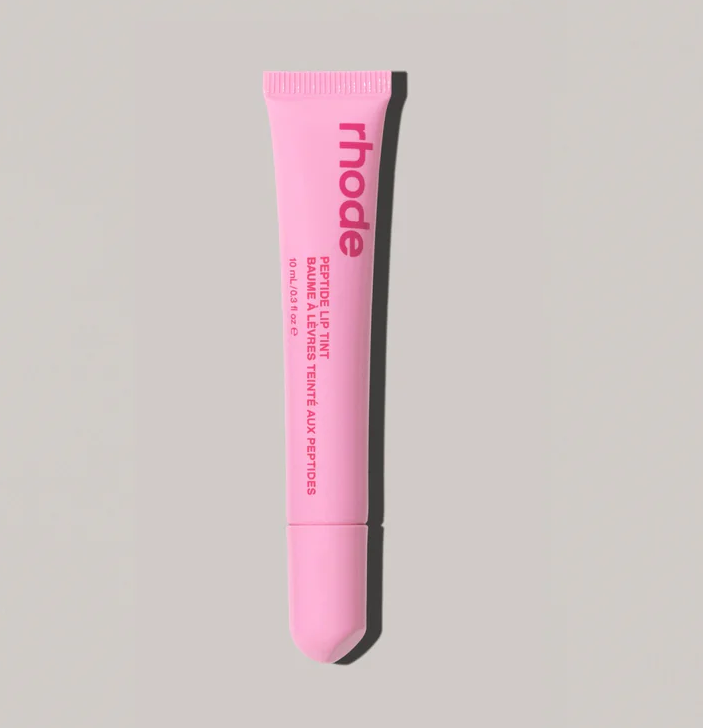
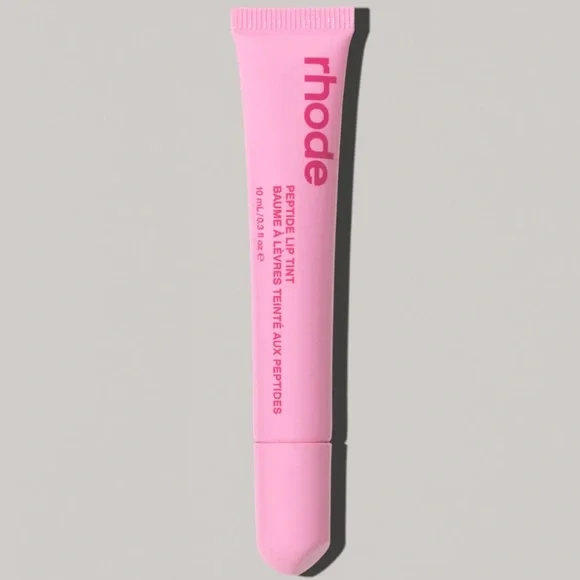
new imgs, padding, buttons

Changed region(s): [[0.3724, 0.0, 0.6517, 1.0]]

diff --git a/index.html b/index.html
@@ -16,125 +16,125 @@
 </head>
 
 <body>
-    <div class="container">
+    <div class="flex-container">
         <h1 class="maintext"> Madison's 2025 Holiday Wishlist</h1>
         <div class="row text-center d-flex justify-content-evenly">
             <div class="col-12 col-lg-6">
                 <div class="card mb-3">
-                    <img src="jelly.webp" class="card-img-top">
+                    <img src="bean.webp" class="bean img-fluid">
                     <div class="card-body">
                         <h5 class="card-title">Rhode Peptide Lip Tint Jelly Bean Shimmer</h5>
                         <p class="card-text">Some quick example text to build on the card title and make up the bulk of
                             the card’s content.</p>
-                        <a href="https://www.rhodeskin.com/products/peptide-lip-tint-jelly-bean" target="_blank" class="btn btn-primary">Go somewhere</a>
+                        <a href="https://www.rhodeskin.com/products/peptide-lip-tint-jelly-bean" target="_blank" class="btn btn-primary">Buy</a>
                     </div>
                 </div>
             </div>
             <div class="col-12 col-lg-6">
                 <div class="card mb-3">
-                    <img src="rasp.webp" class="card-img-top" alt="...">
+                    <img src="rasp.webp" class="img-fluid" alt="...">
                     <div class="card-body">
                         <h5 class="card-title">Rhode Peptide Lip Tine Raspberry Jelly</h5>
                         <p class="card-text">Some quick example text to build on the card title and make up the bulk of
                             the
                             card’s content.</p>
-                        <a href="https://www.rhodeskin.com/products/scented-peptide-lip-tint-raspberry-jelly" target="_blank" class="btn btn-primary">Go somewhere</a>
+                        <a href="https://www.rhodeskin.com/products/scented-peptide-lip-tint-raspberry-jelly" target="_blank" class="btn btn-primary">Buy</a>
                     </div>
                 </div>
             </div>
             <div class="col-12 col-lg-6">
                 <div class="card mb-3">
-                    <img src="satly.webp" class="card-img-top" alt="...">
+                    <img src="salty.webp" class="img-fluid" alt="...">
                     <div class="card-body">
-                        <h5 class="card-title">Rhode Peptide Lip Tine Salty </h5>
+                        <h5 class="card-title">Rhode Peptide Lip Tint Salty </h5>
                         <p class="card-text">Some quick example text to build on the card title and make up the bulk of
                             the
                             card’s content.</p>
-                        <a href="https://www.rhodeskin.com/products/peptide-lip-tint-salty-tan" target="_blank" class="btn btn-primary">Go somewhere</a>
+                        <a href="https://www.rhodeskin.com/products/peptide-lip-tint-salty-tan" target="_blank" class="btn btn-primary">Buy</a>
                     </div>
                 </div>
             </div>
             <div class="col-12 col-lg-6">
                 <div class="card mb-3">
-                    <img src="tanline.webp" class="card-img-top" alt="...">
+                    <img src="tanline.webp" class="img-fluid" alt="...">
                     <div class="card-body">
                         <h5 class="card-title">Rhode Tan Line Pocket Blush</h5>
                         <p class="card-text">Some quick example text to build on the card title and make up the bulk of
                             the
                             card’s content.</p>
-                        <a href="https://www.rhodeskin.com/products/pocket-blush-tan-line" target="_blank" class="btn btn-primary">Go somewhere</a>
+                        <a href="https://www.rhodeskin.com/products/pocket-blush-tan-line" target="_blank" class="btn btn-primary">Buy</a>
                     </div>
                 </div>
             </div>
             <div class="col-12 col-lg-6">
                 <div class="card mb-3">
-                    <img src="..." class="card-img-top" alt="...">
+                    <img src="..." class="img-fluid" alt="...">
                     <div class="card-body">
                         <h5 class="card-title">Rhode</h5>
                         <p class="card-text">Some quick example text to build on the card title and make up the bulk of
                             the
                             card’s content.</p>
-                        <a href="#" class="btn btn-primary">Go somewhere</a>
+                        <a href="#" class="btn btn-primary">Buy</a>
                     </div>
                 </div>
             </div>
             <div class="col-12 col-lg-6">
                 <div class="card mb-3">
-                    <img src="..." class="card-img-top" alt="...">
+                    <img src="..." class="img-fluid" alt="...">
                     <div class="card-body">
                         <h5 class="card-title">Kendra Scott</h5>
                         <p class="card-text">Some quick example text to build on the card title and make up the bulk of
                             the
                             card’s content.</p>
-                        <a href="#" class="btn btn-primary">Go somewhere</a>
+                        <a href="#" class="btn btn-primary">Buy</a>
                     </div>
                 </div>
             </div>
             <div class="col-12 col-lg-6">
                 <div class="card mb-3">
-                    <img src="..." class="card-img-top" alt="...">
+                    <img src="..." class="img-fluid" alt="...">
                     <div class="card-body">
                         <h5 class="card-title">Walmart AG clothes</h5>
                         <p class="card-text">Some quick example text to build on the card title and make up the bulk of
                             the
                             card’s content.</p>
-                        <a href="#" class="btn btn-primary">Go somewhere</a>
+                        <a href="#" class="btn btn-primary">Buy</a>
                     </div>
                 </div>
             </div>
             <div class="col-12 col-lg-6">
                 <div class="card mb-3">
-                    <img src="..." class="card-img-top" alt="...">
+                    <img src="..." class="img-fluid" alt="...">
                     <div class="card-body">
                         <h5 class="card-title">Card title</h5>
                         <p class="card-text">Some quick example text to build on the card title and make up the bulk of
                             the
                             card’s content.</p>
-                        <a href="#" class="btn btn-primary">Go somewhere</a>
+                        <a href="#" class="btn btn-primary">Buy</a>
                     </div>
                 </div>
             </div>
             <div class="col-12 col-lg-6">
                 <div class="card mb-3">
-                    <img src="..." class="card-img-top" alt="...">
+                    <img src="..." class="img-fluid" alt="...">
                     <div class="card-body">
                         <h5 class="card-title">Card title</h5>
                         <p class="card-text">Some quick example text to build on the card title and make up the bulk of
                             the
                             card’s content.</p>
-                        <a href="#" class="btn btn-primary">Go somewhere</a>
+                        <a href="#" class="btn btn-primary">Buy</a>
                     </div>
                 </div>
             </div>
             <div class="col-12 col-lg-6">
                 <div class="card mb-3">
-                    <img src="..." class="card-img-top" alt="...">
+                    <img src="..." class="img-fluid" alt="...">
                     <div class="card-body">
                         <h5 class="card-title">Card title</h5>
                         <p class="card-text">Some quick example text to build on the card title and make up the bulk of
                             the
                             card’s content.</p>
-                        <a href="#" class="btn btn-primary">Go somewhere</a>
+                        <a href="#" class="btn btn-primary">Buy</a>
                     </div>
                 </div>
             </div>

diff --git a/style.css b/style.css
@@ -14,6 +14,12 @@ h1{
 .card{
     margin-top:5px;
     margin-bottom:5px;
-    margin-left:10px;
-    margin-right:10px;
+    margin-left:40px;
+    margin-right:40px;
 }
+.img-fluid{
+    height:50%;
+    width:50%;
+    margin:auto;
+}
+/* 614 */
